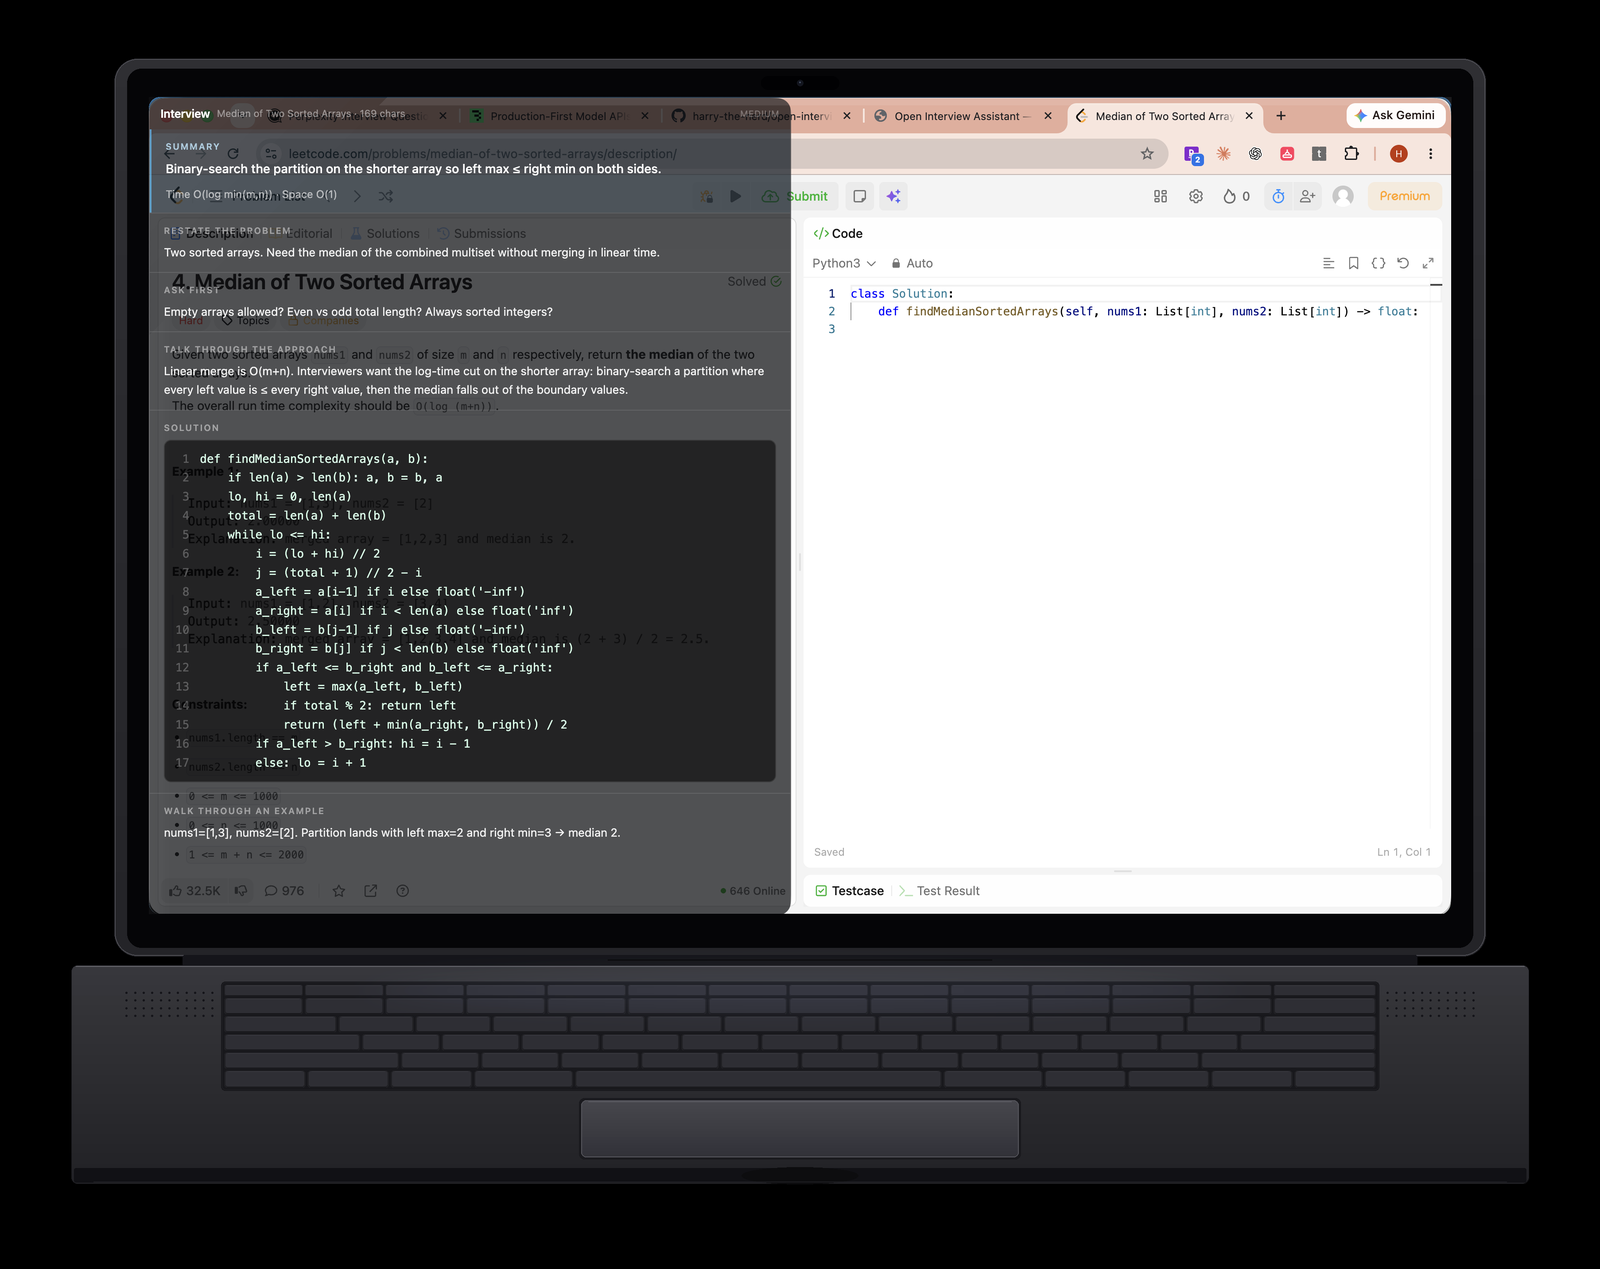
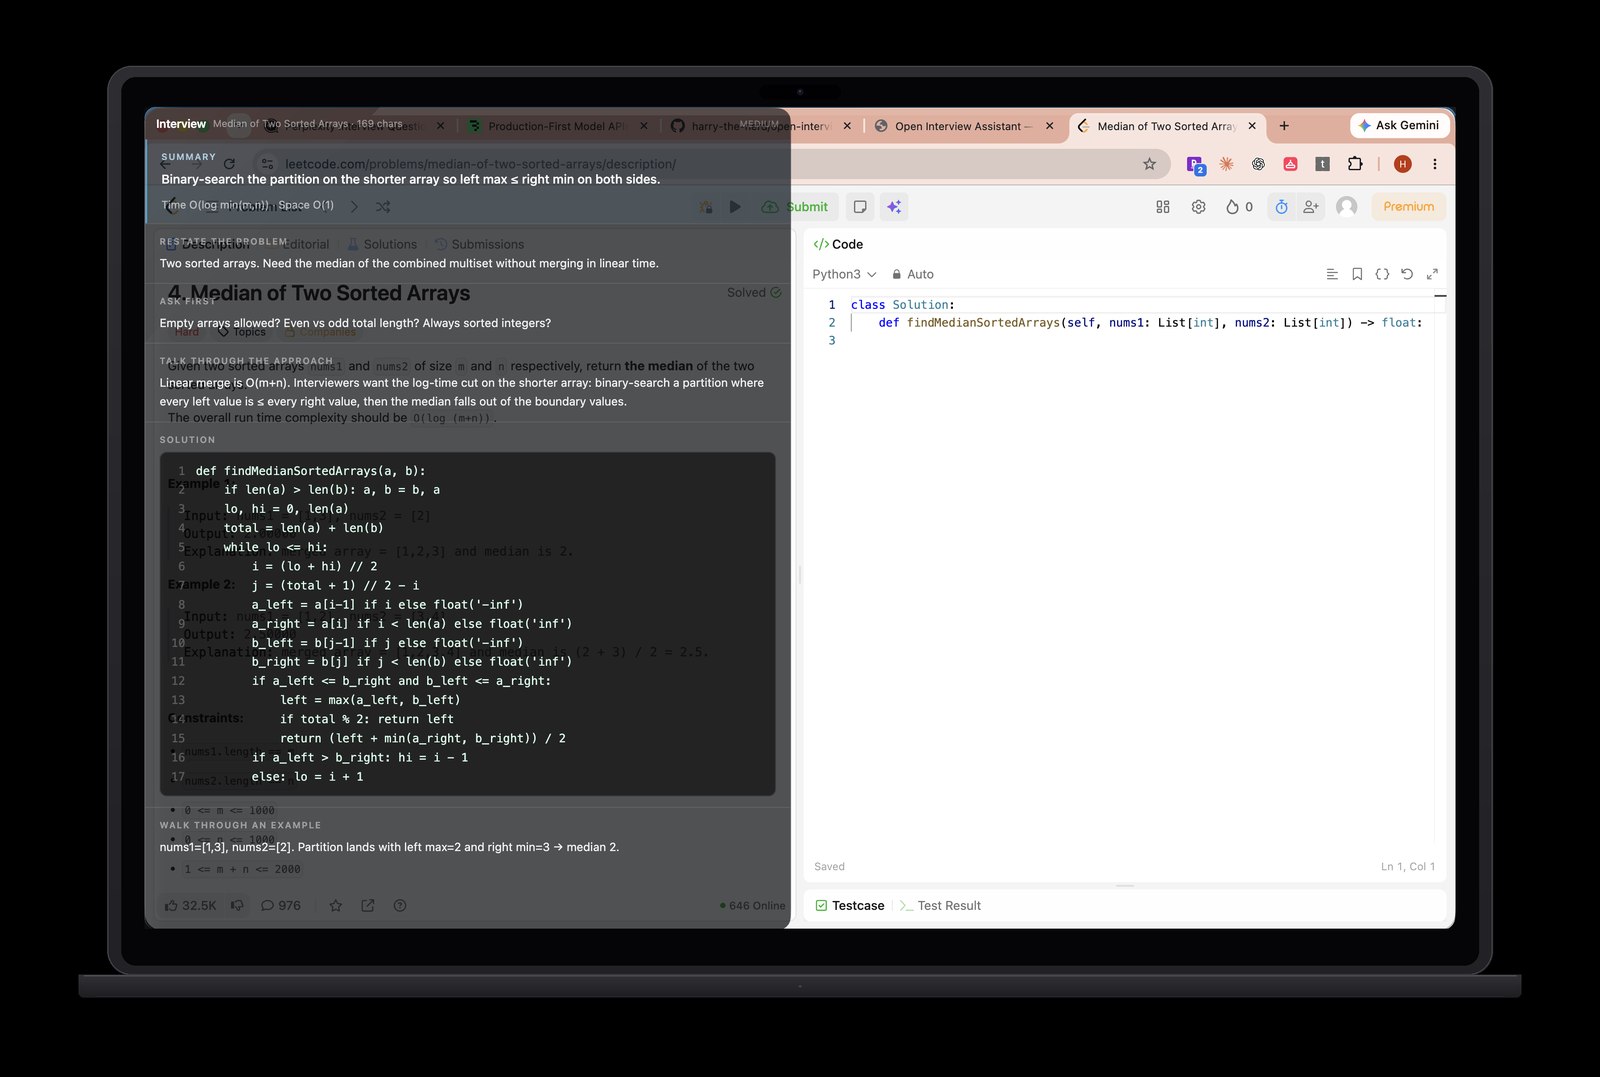
Simplify hero mockup to screen-only laptop frame
Drop the keyboard deck entirely. Keep a slim display bezel and thin
bottom chin so the product shot focuses on the overlay screenshot.

diff --git a/docs/index.html b/docs/index.html
@@ -50,7 +50,7 @@
     />
     <meta property="og:image:type" content="image/png" />
     <meta property="og:image:width" content="1600" />
-    <meta property="og:image:height" content="1269" />
+    <meta property="og:image:height" content="1077" />
     <meta
       property="og:image:alt"
       content="Open Interview Assistant overlay showing an interview script beside a coding problem"
@@ -106,8 +106,8 @@
             "@id": "https://harry-the-nerd.github.io/open-interview-assistant/#hero-image",
             "url": "https://harry-the-nerd.github.io/open-interview-assistant/assets/hero.png",
             "contentUrl": "https://harry-the-nerd.github.io/open-interview-assistant/assets/hero.png",
-            "width": 3612,
-            "height": 2865,
+            "width": 3588,
+            "height": 2417,
             "caption": "Open Interview Assistant floating over a coding interview problem"
           },
           {
@@ -1145,8 +1145,8 @@
             <figure class="shot">
               <img
                 src="assets/hero.png"
-                width="3612"
-                height="2865"
+                width="3588"
+                height="2417"
                 alt="Open Interview Assistant on a MacBook laptop, overlay floating over a LeetCode problem with a structured interview answer"
                 title="Open Interview Assistant on a MacBook"
                 fetchpriority="high"
